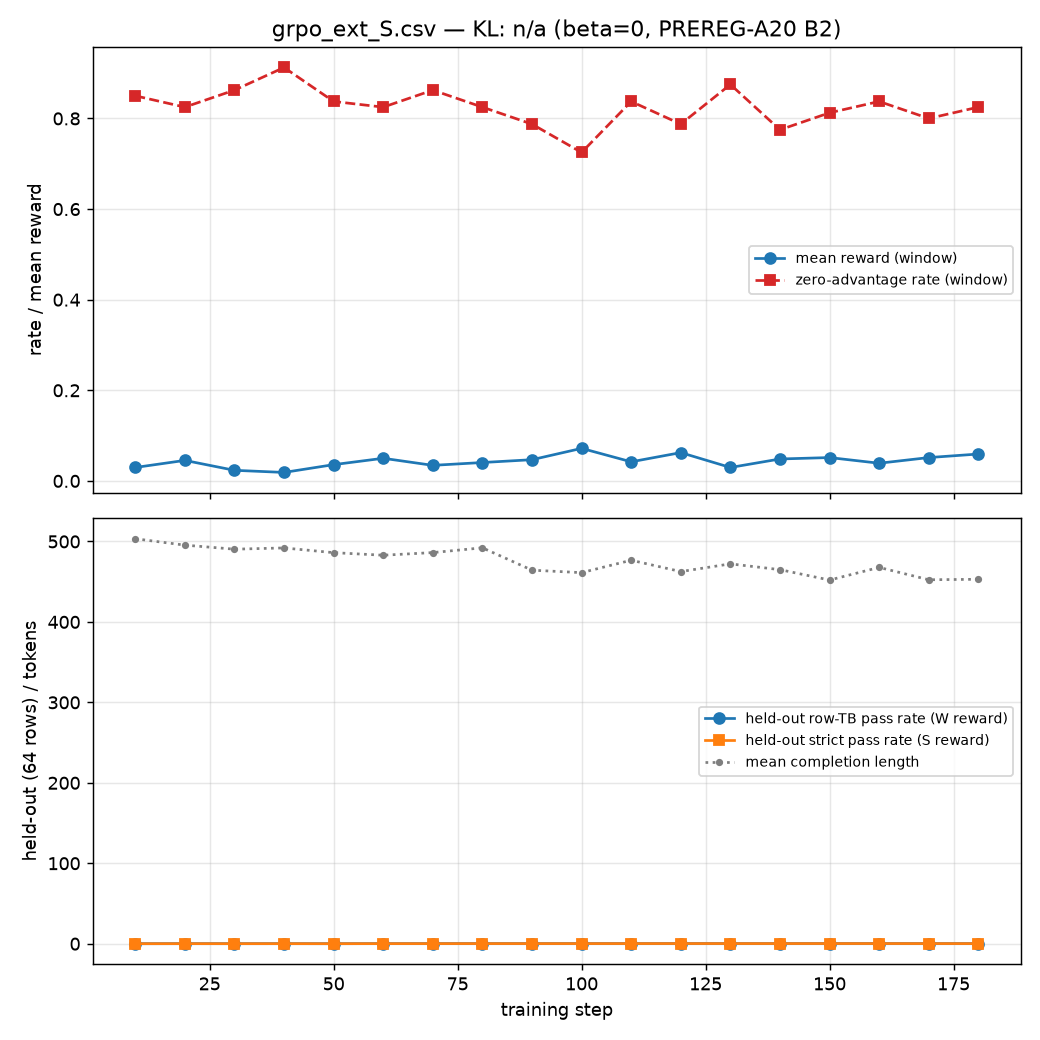
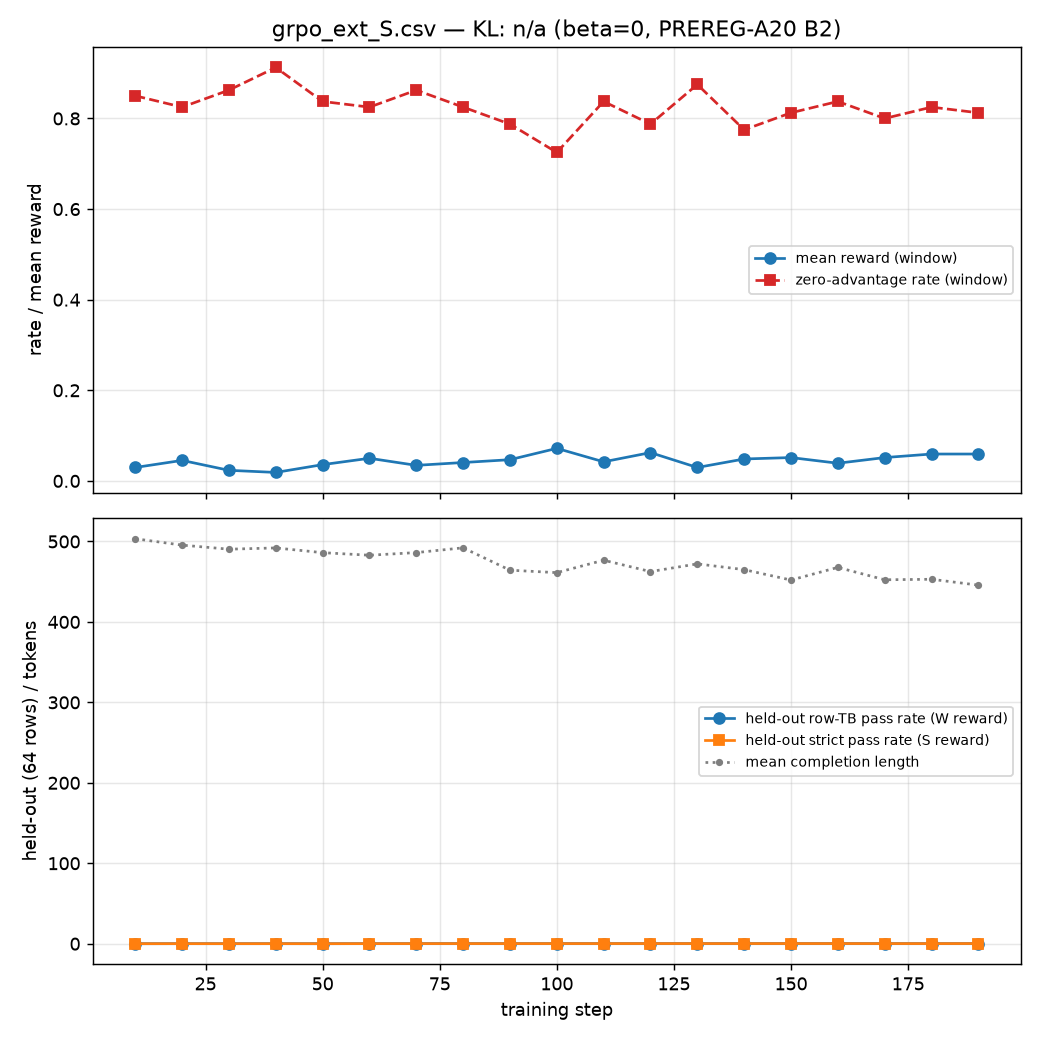
A20 grpo_ext_S: 10-step log #19 (adopted, CSV+plot)

diff --git a/notes/LOG.md b/notes/LOG.md
@@ -4335,3 +4335,6 @@ pipeline; no pinned file changed.
   preserve all 40 IDs/draw/key and primary results, re-audit before labeling.
   GRPO/E1 continue independently. Reports and HANDOFF warn not to submit labels
   while the automatic Part E poll is active and packets remain invalid.
+- 2026-11-10 20:51 — [a20] heartbeat ots upgrade PREREG.md.ots: Success! Timestamp complete
+- 2026-11-10 20:51 — [a20] heartbeat ots upgrade PREREG-A19.md.ots: Success! Timestamp complete
+- 2026-11-10 20:51 — [a20] heartbeat ots upgrade PREREG-A20.md.ots: Success! Timestamp complete
